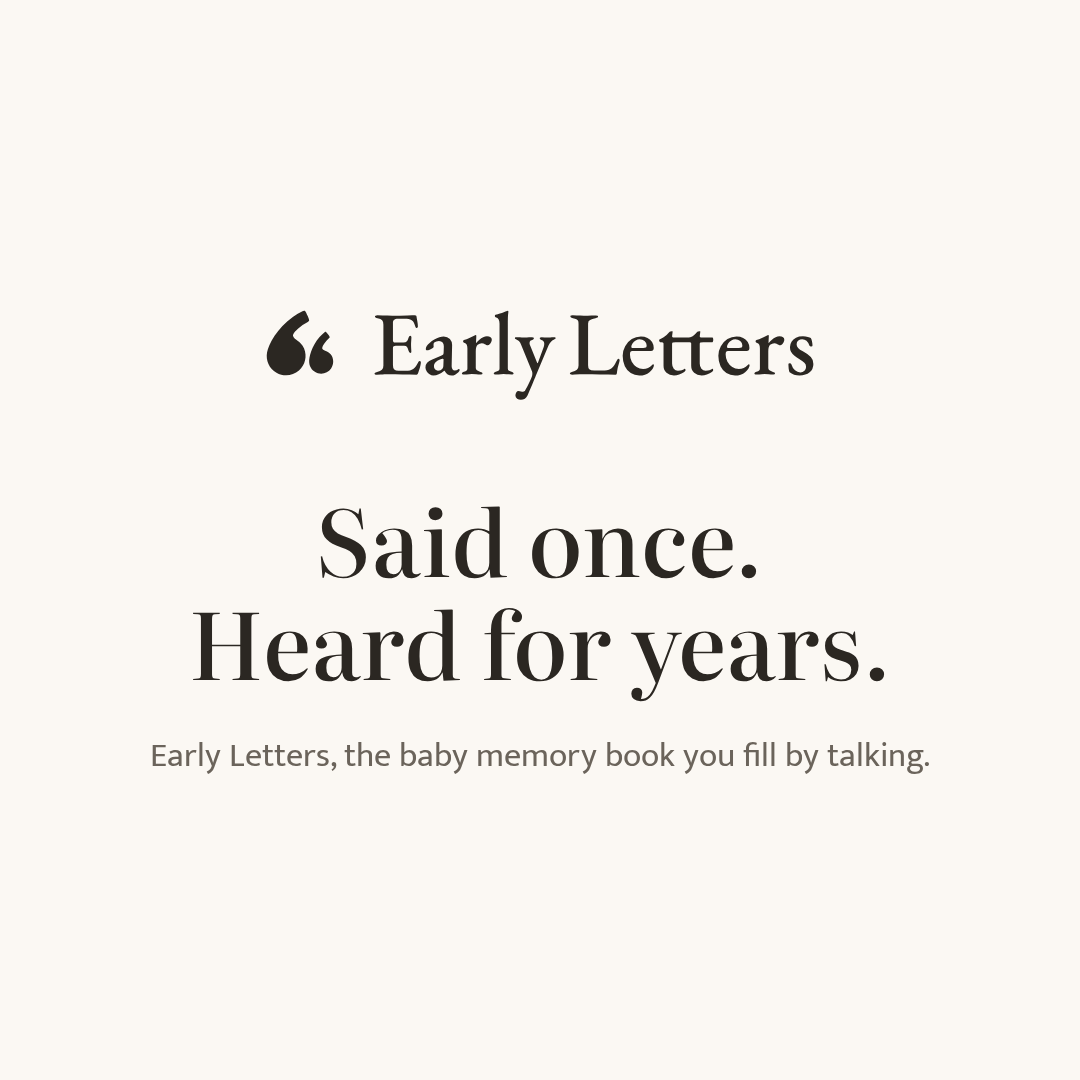
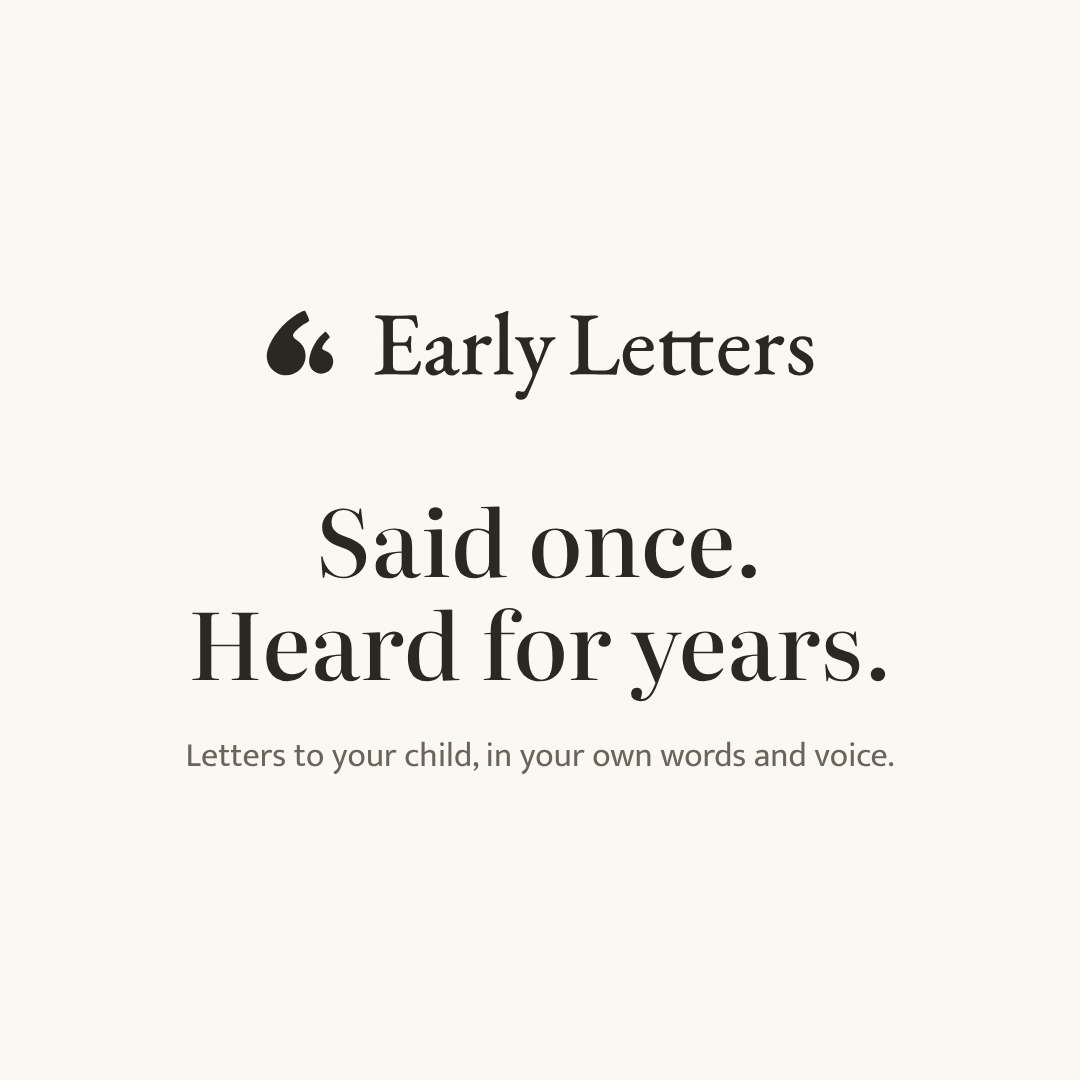
feat(content): positioning A, letters to your child in your own words and voice (#594)
Reviews: https://github.com/thesaurabhpareek/earlyletters/pull/594#issuecomment-6719301541 https://github.com/thesaurabhpareek/earlyletters/pull/594#issuecomment-6719335266 . Founder approved in chat 8 Nov.

diff --git a/packages/content/src/pages.en.ts b/packages/content/src/pages.en.ts
@@ -44,12 +44,12 @@ export const pages = {
     path: "/about",
     title: `About ${brand.name}`,
     metaDescription:
-      `${brand.name} is the baby memory book you fill by talking. It stays in your words, private by default, made by an independent maker.`,
+      `${brand.name}: letters to your child, in your own words and voice. It stays in your words, private by default, made by an independent maker.`,
     sections: [
       {
         heading: "What it is",
         paragraphs: [
-          `${brand.name} is the baby memory book you fill by talking. Parents speak or type notes and letters to a child. A note is quick. A letter is longer. Both belong.`,
+          `${brand.name} keeps letters to your child, in your own words and voice. Parents fill the book by talking, or by typing notes and letters to a child. A note is quick. A letter is longer. Both belong.`,
           "Each letter is filed under {child}'s age that month, signed with the name of the person who wrote it, like From Mama or From Papa, and kept with its original recording. One day {child} can read it, and hear it.",
           `${brand.name} is for families in the United States. Accounts are for adults 18 and over.`,
         ],
@@ -277,7 +277,7 @@ export const pages = {
   notFound: {
     path: "/404",
     title: "Page not found",
-    metaDescription: `This page is not in the book. Head back to ${brand.name}, the baby memory book you fill by talking.`,
+    metaDescription: `This page is not in the book. Head back to ${brand.name}: letters to your child, in your own words and voice.`,
     sections: [
       {
         heading: "We looked under every month. This page is not in the book.",

diff --git a/packages/content/src/release/testflight.en.ts b/packages/content/src/release/testflight.en.ts
@@ -99,7 +99,7 @@ function build2Text(withDeleteRow: boolean): string {
   ].join('\n\n');
 }
 
-const describeApp = `It is the baby memory book you fill by talking: you tell your child something about the day, and it keeps your words and your voice as a letter.`;
+const describeApp = `It keeps letters to your child, in your own words and voice: you tell your child something about the day, and it keeps your words and your recording as a letter.`;
 const earlyTest = 'It is an early test version, so it can make mistakes, and it will change. You must be 18 or older to take part.';
 
 export const testflightCopy = {
@@ -114,7 +114,7 @@ export const testflightCopy = {
    * invitation, read by Beta App Review). The same for every build on the record, so it says only what both builds do.
    */
   betaAppDescription: [
-    `${brand.name}, the baby memory book you fill by talking.`,
+    `${brand.name}: letters to your child, in your own words and voice.`,
     'Tap the red circle and tell your child something about today. Your words are written down on your phone and kept as a letter, exactly as you said them, with the recording beside it. Small slips, like an um or a word said twice, are marked, and you can put any of them back.',
     'Letters gather in your child\'s book, month by month, to read and hear together for years. You can also type a letter, or tap "Not much today" on a quiet day.',
     'This is an early test version for a small group of family and friends. It can make mistakes, and it will change. You must be 18 or older to take part. Purchases in this test cost nothing.',

diff --git a/apps/mobile/e2e-web/j01-first-run.flow.ts b/apps/mobile/e2e-web/j01-first-run.flow.ts
@@ -17,11 +17,11 @@ test('[J01] first run: the age question, the promise, the child, the signature, 
   await btn(app, 'Continue').click();
 
   await expect(btn(app, 'Begin the book')).toBeVisible();
-  await expect(app.getByText('The baby memory book you fill by talking.')).toBeVisible();
+  await expect(app.getByText('Letters to your child, in your own words and voice.')).toBeVisible();
   await expect(app.getByText('Your first two letters are free.')).toBeVisible();
   // S03: the stacked lockup is the one logo (an image named for VoiceOver); the name is never typed on the screen.
   await expect(app.getByRole('img').first()).toBeVisible();
-  await step('happy', 'Welcome', 'The light rises from the gate: the stacked lockup, one serif line of what the book is, one line about the voice, and "Your first two letters are free." (D-082). One button: Begin the book. ("I already have a book" and "I was invited" sit under it in builds with sign-in; this build has server features off, so both are hidden.)');
+  await step('happy', 'Welcome', 'The light rises from the gate: the stacked lockup, one serif line of what the book is, one line about how it fills, and "Your first two letters are free." (D-082). One button: Begin the book. ("I already have a book" and "I was invited" sit under it in builds with sign-in; this build has server features off, so both are hidden.)');
   await expect(btn(app, 'I was invited')).toHaveCount(0);
   await expect(btn(app, 'I already have a book')).toHaveCount(0);
   await startOnboarding(app);

diff --git a/packages/brand/index.ts b/packages/brand/index.ts
@@ -76,10 +76,13 @@ export const brand = {
   name,
   /** The category word people search for and understand. Always paired with the name. */
   category: 'memory book',
-  /** App Store name, max 30 characters. */
-  storeName: `${name}: Memory Book`,
-  /** App Store subtitle, max 30 characters. Adds search words the name lacks ("baby", "journal"). */
-  subtitle: 'Baby journal in your own voice',
+  /**
+   * App Store name, max 30 characters (27). Positioning A, founder decision D-139: "Baby Journal" is the search term
+   * Apple's hints offer; "journal" is allowed in the store name, subtitle and keywords only (BRAND.md glossary).
+   */
+  storeName: `${name}: Baby Journal`,
+  /** App Store subtitle, max 30 characters (29). D-139. A straight apostrophe, never a curly one. */
+  subtitle: "For parents who'd rather talk",
   tagline: 'It stays in your words.',
   /** Printed product naming pattern. */
   printTitle: (year: number) => `${name}: Year ${year === 1 ? 'One' : year === 2 ? 'Two' : year === 3 ? 'Three' : year}`,

diff --git a/packages/content/test/rules.test.ts b/packages/content/test/rules.test.ts
@@ -931,9 +931,12 @@ describe('glossary (BRAND.md)', () => {
     expect(offenders(COPY, /\b(Google|Apple) sign-in\b|\b(Google|Apple) login\b|\bmagic link\b/i)).toEqual([]);
   });
 
+  // Deliberate rule change, founder decision D-139 (positioning A, 1 Nov 2026): the descriptor is now "letters to your
+  // child, in your own words and voice", and the old one ("the baby memory book you fill by talking") is retired.
   it('uses one descriptor', () => {
-    expect(en.app.oneLine.replaceAll('{app}', brand.name)).toBe(`${brand.name}, the baby memory book you fill by talking.`);
-    expect(offenders(COPY, /\bthe memory book you fill by talking\b/i)).toEqual([]);
+    expect(en.app.oneLine.replaceAll('{app}', brand.name)).toBe(`${brand.name}: letters to your child, in your own words and voice.`);
+    expect(offenders(COPY, /\bmemory book (?:that )?(?:you|parents) fill by talking\b/i)).toEqual([]);
+    expect(offenders(COPY, /\bletters to your child,? in your (?:own )?voice\b/i)).toEqual([]);
   });
 });
 

diff --git a/packages/content/src/strings.en.ts b/packages/content/src/strings.en.ts
@@ -31,8 +31,8 @@ export const en = {
     name: "{app}",
     category: brand.category,
     tagline: brand.tagline,
-    // One descriptor everywhere (BRAND.md glossary).
-    oneLine: "{app}, the baby memory book you fill by talking.",
+    // One descriptor everywhere (BRAND.md glossary; positioning A, D-139).
+    oneLine: "{app}: letters to your child, in your own words and voice.",
   },
 
   common: {
@@ -66,8 +66,8 @@ export const en = {
     childFallback: "your child",
     welcome: {
       title: "{app}",
-      subtitle: "The baby memory book you fill by talking.",
-      body: "A few words at a time, in your own voice. Kept for {child} to read and hear for years.",
+      subtitle: "Letters to your child, in your own words and voice.",
+      body: "Talk for a minute, or type a few lines. Kept for {child} to read and hear for years.",
       freeLine: "Your first two letters are free.",
       startButton: "Begin the book",
       signInButton: "I already have a book",

diff --git a/packages/content/src/store.en.ts b/packages/content/src/store.en.ts
@@ -44,8 +44,9 @@ export const storeListing = {
   subtitle: brand.subtitle,
   promotionalText:
     "Tell your child about today in a minute. It stays in your words. Every change is marked, and your original recording is kept unchanged.",
-  keywords: "diary,keepsake,newborn,toddler,child,parenting,audio,recorder,bedtime,mom,dad,private,talk,mama",
-  description: `${brand.name} is the baby memory book you fill by talking.
+  // D-139: no word from the name or subtitle; "memory" and "book" keep those searches matching. 100 of 100 bytes.
+  keywords: "diary,keepsake,memory,book,voice,newborn,toddler,child,parenting,audio,recorder,bedtime,mom,dad,mama",
+  description: `${brand.name}: letters to your child, in your own words and voice.
 
 Tell your child one thing about today. The first laugh, the long night, the song you made up in the car. It becomes a letter in your own words, with your voice kept beside it.
 

diff --git a/packages/content/test/testflight.test.ts b/packages/content/test/testflight.test.ts
@@ -76,7 +76,8 @@ describe('[RA-16-01] TestFlight texts: content rules', () => {
   });
 
   it('uses the glossary: one descriptor, "Not much today" in quotes, sign-in link, the other parent in prose', () => {
-    expect(testflightCopy.betaAppDescription.startsWith(`${brand.name}, the baby memory book you fill by talking.`)).toBe(true);
+    // D-139: the descriptor changed with the founder's positioning decision.
+    expect(testflightCopy.betaAppDescription.startsWith(`${brand.name}: letters to your child, in your own words and voice.`)).toBe(true);
     expect(offenders(ALL, /\b(?:the|a) memory book you fill by talking\b/i)).toEqual([]);
     expect(offenders(ALL, /(?<!")Not much today(?!")/)).toEqual([]);
     expect(offenders(ALL, /\b(magic link|log ?in|login|log out|co-?parent|partner|spouse|journal|diary|entry|entries|voice note)\b/i)).toEqual([]);

diff --git a/packages/content/src/site.en.ts b/packages/content/src/site.en.ts
@@ -20,12 +20,12 @@ export const site = {
   /** Open Graph and social card text: first contact, so it carries the descriptor (BRAND.md naming; brand review BRD-12). */
   og: {
     title: brand.name,
-    description: `${brand.name}, the baby memory book you fill by talking. ${brand.tagline}`,
+    description: `${brand.name}: letters to your child, in your own words and voice. ${brand.tagline}`,
   },
   hero: {
-    headline: "Letters to your child, in your voice",
+    headline: "Letters to your child, in your own words and voice",
     subhead:
-      `${brand.name} is the baby memory book you fill by talking. It stays in your words, and your letters stay on your iPhone.`,
+      `${brand.name} is a book you fill by talking. It stays in your words, and your letters stay on your iPhone.`,
   },
   primaryCta: "Join the waitlist",
   price,

diff --git a/packages/content/BRAND.md b/packages/content/BRAND.md
@@ -4,13 +4,15 @@ The name, store name, category, tagline and print title live in `packages/brand/
 
 ## Positioning statement
 
-For parents of young children, Early Letters is the baby memory book you fill by talking. Unlike fill-in-the-blank baby books or photo apps, it keeps letters to your child in your own words and your own voice. It stays in your words, so your child can read and hear them for years. (From v1.1: and for the family who love them.)
+For parents of young children who would rather talk than write, Early Letters keeps letters to your child, in your own words and voice. You talk for a minute, or type, and each letter goes into your child's book with the recording beside it. Unlike fill-in-the-blank baby books, photo apps or journals that write for you, it never rewrites a word: every small fix is marked and can be undone. It stays in your words, so your child can read and hear them for years. (From v1.1: and for the family who love them.)
+
+Positioning A, founder decision D-139 (1 Nov 2026). It replaces the descriptor "the baby memory book you fill by talking" and the store name "Early Letters: Memory Book".
 
 ## Naming system
 
 - **Early Letters** is the brand. Never alone on first mention to a new audience.
-- **Early Letters + memory book** is how we introduce ourselves, with one descriptor only: "Early Letters, the baby memory book you fill by talking." Use at any first contact: App Store, homepage hero, ads.
-- **Early Letters: Memory Book** is the App Store name only.
+- **Early Letters + the descriptor** is how we introduce ourselves, with one descriptor only: "Early Letters: letters to your child, in your own words and voice." Use at any first contact: App Store description's first line, homepage, link previews, ads, the app's one-line description (`en.app.oneLine`). Where the name is already on screen (a logo, a title), the line stands alone: "Letters to your child, in your own words and voice."
+- **Early Letters: Baby Journal** is the App Store name only, with the subtitle "For parents who'd rather talk" (`packages/brand`). "Journal" is there for search; it never names the product in prose.
 - **Early Letters** alone is fine once context is set: after the hero, in email to existing users, in the app.
 - **Early Letters: Year One**, **Year Two**, and so on, name the printed books. No other book-line names.
 - **Notes** and **letters** are the two things people make. A note is quick. A letter is longer. Both live in the memory book.
@@ -82,8 +84,9 @@ One term per concept. Banned words must not appear in user-facing copy (app, web
 | Concept | Use | Banned in copy | Notes |
 |---|---|---|---|
 | The product | Early Letters (from `brand.name`) | EL, the app (as a name), Scribe, Lumira, Letters (alone) | Never typed in `packages/content/src`. |
-| Descriptor | "the baby memory book you fill by talking" | "the memory book you fill by talking", other variants | One descriptor everywhere. |
-| What the product makes | memory book; "the book" or "{child}'s book" after first mention | journal, diary, baby book (except about paper competitors), album, scrapbook | Store keywords may keep search terms. |
+| Descriptor | "letters to your child, in your own words and voice" (after the name: "Early Letters: letters to your child, in your own words and voice.") | "the baby memory book you fill by talking" and its variants (retired by D-139), other variants of the line | One descriptor everywhere. Enforced by `test/rules.test.ts`. |
+| App Store name and subtitle | "Early Letters: Baby Journal"; "For parents who'd rather talk" | "Early Letters: Memory Book" (retired by D-139) | From `brand.storeName` and `brand.subtitle` only. |
+| What the product makes | memory book; "the book" or "{child}'s book" after first mention | journal, diary, baby book (except about paper competitors), album, scrapbook | "Journal" is allowed in the store name, subtitle and keywords, for search only (D-139). Store keywords may keep other search terms. Prose keeps "book" and "letter". |
 | Printed product | Early Letters: Year One (from `brand.printTitle`) | yearbook, photo book | Not promised in v1.0. |
 | Longer piece someone makes | letter | entry, post, memory, story, journal entry | |
 | Short piece someone makes | note | quick entry, moment | Only ever something a person makes. |

diff --git a/docs/store/app-store-connect-1.0.md b/docs/store/app-store-connect-1.0.md
@@ -23,8 +23,8 @@ files are superseded. Run `eas metadata:push` only from a `store.config.json` re
 
 | Field | Value for 1.0 | Status |
 |---|---|---|
-| Name | From `packages/brand` `storeName` (26 of 30) | READY; positioning decision pending with the founder |
-| Subtitle | From `packages/brand` `subtitle` (30 of 30) | READY; positioning decision pending with the founder |
+| Name | "Early Letters: Baby Journal" from `packages/brand` `storeName` (27 of 30), positioning A (D-139) | READY in the repo; the App Store Connect app name is changed by the founder, or with his login, before submission |
+| Subtitle | "For parents who'd rather talk" from `packages/brand` `subtitle` (29 of 30), D-139 | READY |
 | Bundle ID | `com.earlyletters.scribe` from the EAS `production` profile. TestFlight build 1 is on the `.preview` record and cannot be submitted to this record | READY |
 | SKU, Apple ID | `scribe-001`, 6829377245. Add `ascAppId` to `eas.json` `submit.production` after the go/no-go (Mon 9 Nov) | READY |
 | Primary language | English (U.S.) (D-121) | READY |
@@ -166,10 +166,10 @@ category; Apple's 2026 holiday schedule; anything that needs the release build.
 
 Draft description:
 
-Before submitting, confirm on the release build: "Not much today", reminders off by default, and the PDF export. The first line follows the positioning the founder chooses.
+Before submitting, confirm on the release build: "Not much today", reminders off by default, and the PDF export. The first line follows positioning A (D-139).
 
 ```text
-Early Letters is a baby memory book that parents fill by talking. At the end of the day a parent tells their child one thing about it, in a sentence or a few minutes. The app writes the words down on the iPhone, keeps the recording beside them, and files the letter by the child's month of age. Years later the child can read it, and hear how their parent sounded when they said it.
+Early Letters keeps letters to your child, in your own words and voice. At the end of the day a parent tells their child one thing about it, in a sentence or a few minutes. The app writes the words down on the iPhone, keeps the recording beside them, and files the letter by the child's month of age. Years later the child can read it, and hear how their parent sounded when they said it.
 
 What is different: the app never rewrites a parent's words. Speech-to-text runs on the device. The app only fixes small slips, like an um, a repeat or a name spelled the family's way, and marks every fix so the parent can tap it and put it back. Typed letters stay exactly as typed. The original recording is always kept unchanged.
 

diff --git a/docs/store/app-store.md b/docs/store/app-store.md
@@ -8,10 +8,10 @@ Rules this copy follows (docs/DECISIONS.md): no "beta" (D-060, guideline 2.2); n
 
 | Field | Value | Length / limit |
 |---|---|---|
-| Name | Early Letters: Memory Book | 26 / 30 |
-| Subtitle | Baby journal in your own voice | 30 / 30 |
+| Name | Early Letters: Baby Journal | 27 / 30 |
+| Subtitle | For parents who'd rather talk | 29 / 30 |
 | Promotional text | Tell your child about today in a minute. It stays in your words. Every change is marked, and your original recording is kept unchanged. | 135 / 170 |
-| Keywords | `diary,keepsake,newborn,toddler,child,parenting,audio,recorder,bedtime,mom,dad,private,talk,mama` | 95 / 100 |
+| Keywords | `diary,keepsake,memory,book,voice,newborn,toddler,child,parenting,audio,recorder,bedtime,mom,dad,mama` | 100 / 100 |
 | Primary category | Lifestyle | |
 | Support URL | https://earlyletters.com | |
 | Marketing URL | https://earlyletters.com | |
@@ -20,10 +20,10 @@ Rules this copy follows (docs/DECISIONS.md): no "beta" (D-060, guideline 2.2); n
 
 Keywords repeat no word from the name or subtitle (Apple already indexes those), use no spaces, and name no competitor or other platform.
 
-## Description (3462 / 4000)
+## Description (3470 / 4000)
 
 ```text
-Early Letters is the baby memory book you fill by talking.
+Early Letters: letters to your child, in your own words and voice.
 
 Tell your child one thing about today. The first laugh, the long night, the song you made up in the car. It becomes a letter in your own words, with your voice kept beside it.
 
